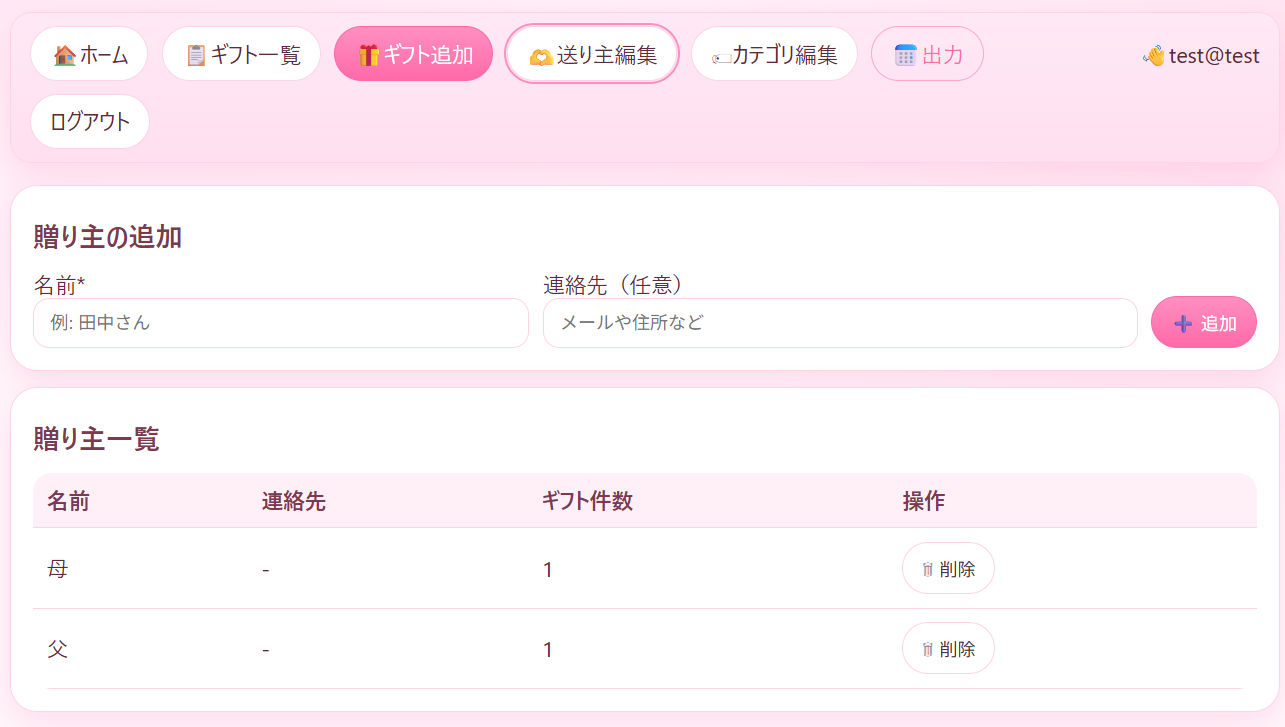
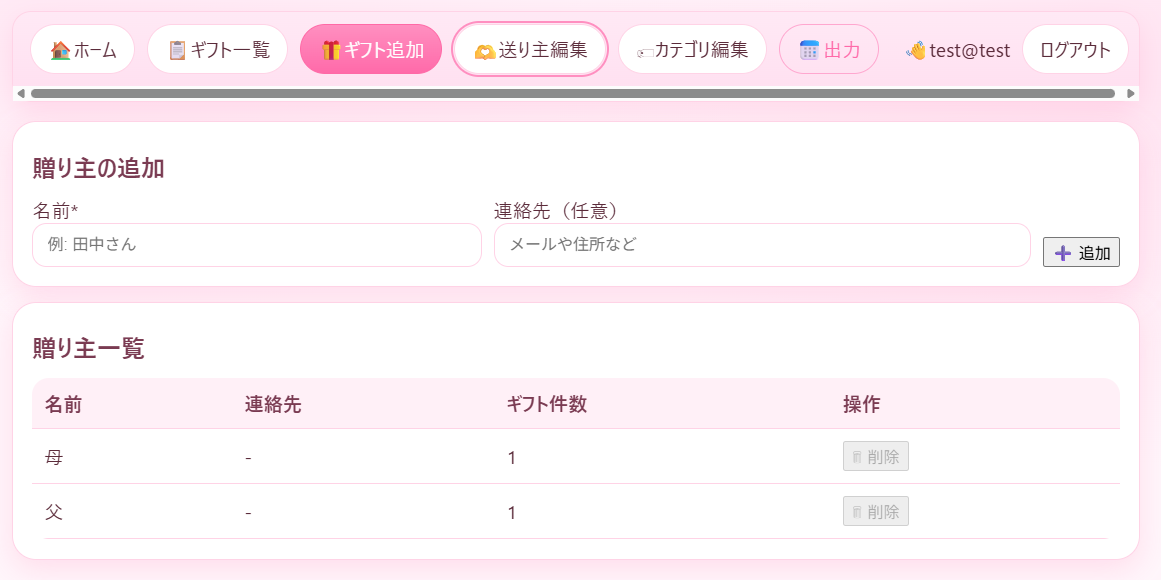
完成版 GiftLog をアップロード

diff --git a/templates/base.html b/templates/base.html
@@ -35,27 +35,62 @@
     }
 
     .container{max-width:980px;margin:0 auto;padding:20px}
-
+    
     /* ナビ */
-    nav.nav{
-      display:flex; gap:10px; align-items:center; margin-bottom:16px;
-      padding:10px 14px; border-radius:16px;
-      background: linear-gradient(180deg, #ffe9f5, #ffdff0);
-      border:1px solid var(--line);
-      box-shadow: var(--shadow);
-      flex-wrap: wrap;
-    }
-    .right{margin-left:auto}
-    .btn{
-      padding:9px 14px; border-radius:999px;
-      background:#fff; border:1px solid var(--line);
-      color:var(--ink); text-decoration:none; display:inline-flex; align-items:center; gap:6px;
-      transition: transform .06s ease, box-shadow .2s ease, background .2s ease;
-    }
-    .btn:hover{ transform: translateY(-1px); box-shadow: var(--shadow); }
-    .btn.primary{ background: linear-gradient(180deg, var(--accent-2), var(--accent)); color:white; border:1px solid #ff69a6; }
-    .btn.ghost{ background:transparent; border-color: var(--accent-3); color:var(--accent); }
-    .btn.active{ outline: 2px solid var(--accent-2); outline-offset: 1px; }
+nav.nav{
+  display: flex;
+  gap: 10px;
+  align-items: center;
+  margin-bottom:16px;
+  padding:10px 14px;
+  border-radius:16px;
+  background: linear-gradient(180deg, #ffe9f5, #ffdff0);
+  border:1px solid var(--line);
+  box-shadow: var(--shadow);
+
+  /* 横並びを維持しつつ、はみ出したら横スクロール */
+  flex-wrap: nowrap;              /* 折り返し禁止 */
+  overflow-x: auto;               /* 横スクロール許可 */
+  overflow-y: hidden;
+  -webkit-overflow-scrolling: touch; /* iOSでなめらか */
+  scrollbar-width: thin;          /* (任意) スクロールバー細く */
+}
+
+/* 右側の押し出し要素（メール/ログアウト）も縮ませない */
+nav.nav .right{ margin-left:auto; flex:0 0 auto; }
+
+/* ボタンは改行させず、縮ませない */
+nav.nav .btn{
+  padding:9px 14px;
+  border-radius:999px;
+  background:#fff;
+  border:1px solid var(--line);
+  color:var(--ink);
+  text-decoration:none;
+  display:inline-flex;
+  align-items:center;
+  gap:6px;
+  transition: transform .06s ease, box-shadow .2s ease, background .2s ease;
+
+  white-space: nowrap;            /* ← 改行禁止 */
+  word-break: keep-all;           /* ← 日本語も極力分割しない */
+  line-break: strict;
+  flex-shrink: 0;                 /* ← 縮小禁止（押しつぶさない） */
+}
+
+/* (任意) ユーザー名などの小テキストも改行＆縮小を防止 */
+nav.nav .small{ white-space:nowrap; flex-shrink:0; }
+
+nav.nav .btn:hover{ transform: translateY(-1px); box-shadow: var(--shadow); }
+nav.nav .btn.primary{
+  background: linear-gradient(180deg, var(--accent-2), var(--accent));
+  color:white; border:1px solid #ff69a6;
+}
+nav.nav .btn.ghost{ background:transparent; border-color: var(--accent-3); color:var(--accent); }
+nav.nav .btn.active{ outline: 2px solid var(--accent-2); outline-offset: 1px; }
+
+
+
 
     /* カード/見出し/通知 */
     .card{ background: var(--card); border:1px solid var(--line); border-radius:20px; padding:16px; margin:12px 0; box-shadow: var(--shadow); }
